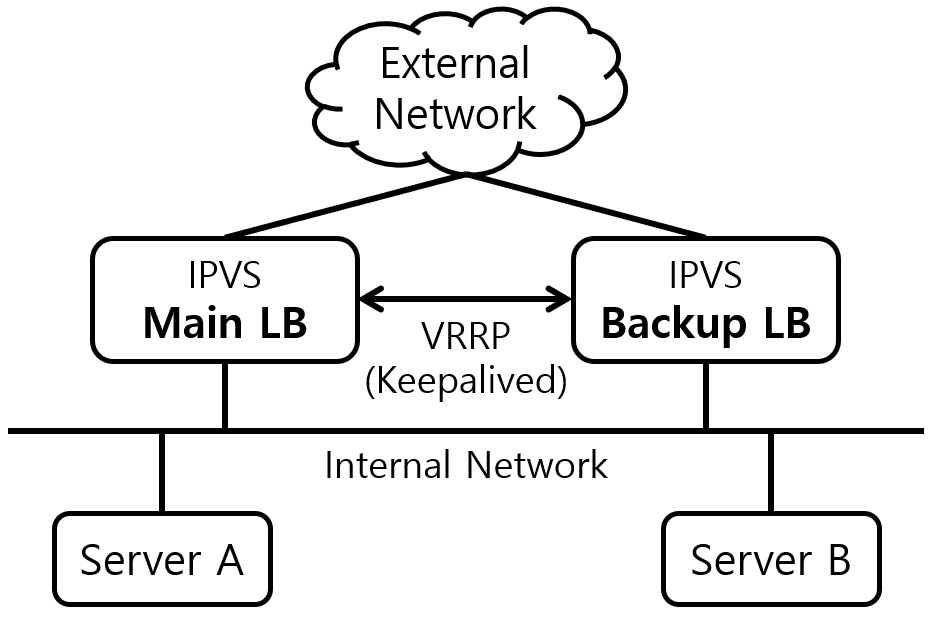
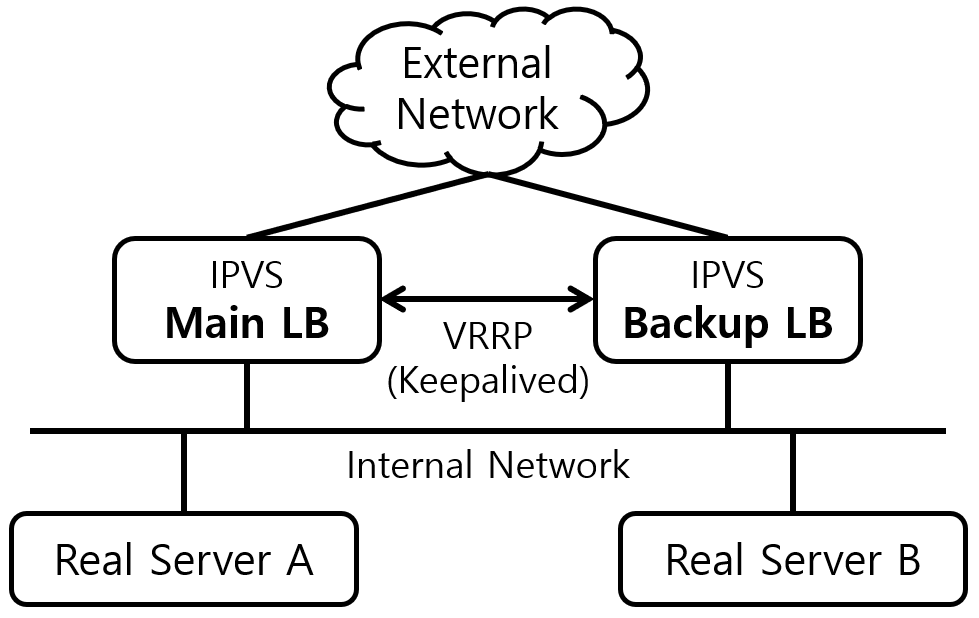
Update LVS

diff --git a/_docs/theory_analysis/Linux_LVS_ipvs.md b/_docs/theory_analysis/Linux_LVS_ipvs.md
@@ -13,7 +13,7 @@ Linux Kernel Level에서 Load Balancing을 수행하는 기법인 LVS (Linux Vir
 
 ![]({{site.baseurl}}/images/theory_analysis/Linux_LVS_IPVS/LVS.PNG){: width="500px"}
 
-LVS는 Linux에서 제공하는 L4 Load Balancer 솔루션이다. 위의 그림은 LVS 구성을 나타낸다. LVS는 크게 Packet Load Balacing을 수행하는 Load Balancer와 Packet을 처리하는 Server로 구성되어 있다. Load Balancer는 SPOF (Single Pointer Of Failure) 방지를 위해 일반적으로 2대 이상의 Load Balancer를 VRRP로 묶어서 구성한다. VRRP로 묶는데는 Linux Kernel의 Network Stack에서 제공하는 Keepalived 기능을 이용한다. 각 Load Balancer에서는 아래에서 설명할 Linux Kenrel의 IPVS를 이용하여 Packet Load Balancing을 수행한다.
+LVS는 Linux에서 제공하는 L4 Load Balancer 솔루션이다. 위의 그림은 LVS 구성을 나타낸다. LVS는 크게 Packet Load Balacing을 수행하는 Load Balancer와 Packet의 실제 목적지인 Real Server로 구성되어 있다. Load Balancer는 SPOF (Single Pointer Of Failure) 방지를 위해 일반적으로 2대 이상의 Load Balancer를 VRRP로 묶어서 구성한다. VRRP로 묶는데는 Linux Kernel의 Network Stack에서 제공하는 Keepalived 기능을 이용한다. 각 Load Balancer에서는 아래에서 설명할 Linux Kenrel의 IPVS를 이용하여 Packet Load Balancing을 수행한다.
 
 ### 2. IPVS (IP Virtual Server)
 
